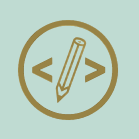
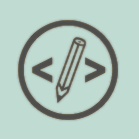
edited footer and skills sections

Changed region(s): [[0.1151, 0.1439, 0.8633, 0.8633], [0.2302, 0.259, 0.777, 0.7482]]

diff --git a/src/Components/jsx/Footer.jsx b/src/Components/jsx/Footer.jsx
@@ -10,16 +10,16 @@ import '../css/Footer.css';
 class Footer extends Component{
     render(){
         return(
-            <footer className = 'Contact'>
+            <footer className = 'contact'>
                 <Container fluid>
                     <Row>
                         <Col>
-                            <p className='footer-heading font-weight-bold text-center'>Get In Touch</p>
+                            <p className='contact--heading font-weight-bold text-center'>Get In Touch</p>
                         </Col>
                     </Row>
                     <Row>
                         <Col>
-                            <p className='footer-text'>Thanks for visiting!
+                            <p className='contact--text'>Thanks for visiting!
                              I'm always looking for new opportunities and connections. My
                             inbox is always open. Whether you have a question
                              or just want to say hi, feel free to message me. I'll try my best to get
@@ -30,22 +30,22 @@ class Footer extends Component{
                         <Col>
                             <div>
                                 <a href="https://github.com/Deep310" target="_blank" rel="noopener noreferrer">
-                                    <IconContext.Provider value={{ color: "#988345", size: "3em", className: "react-icons" }}>
+                                    <IconContext.Provider value={{ color: "white", size: "3em", className: "react-icons" }}>
                                     <FaGithub />
                                     </IconContext.Provider>
                                 </a>
                                 <a href="https://www.linkedin.com/in/deep-parekh/" target="_blank" rel="noopener noreferrer">
-                                    <IconContext.Provider value={{ color: "#988345", size: "3em", className: "react-icons" }}>
+                                    <IconContext.Provider value={{ color: "white", size: "3em", className: "react-icons" }}>
                                     <FaLinkedinIn />
                                     </IconContext.Provider>
                                 </a>
                                 <a href="https://www.facebook.com/profile.php?id=100006023175255" target="_blank" rel="noopener noreferrer">
-                                    <IconContext.Provider value={{ color: "#988345", size: "3em", className: "react-icons" }}>
+                                    <IconContext.Provider value={{ color: "white", size: "3em", className: "react-icons" }}>
                                     <FaFacebookSquare />
                                     </IconContext.Provider>
                                 </a>
                                 <a href="mailto:dparekh2019@gmail.com">
-                                    <IconContext.Provider value={{ color: "#988345", size: "3em", className: "react-icons" }}>
+                                    <IconContext.Provider value={{ color: "white", size: "3em", className: "react-icons" }}>
                                     <MdEmail />
                                     </IconContext.Provider>
                                 </a>

diff --git a/src/Components/jsx/Skills.jsx b/src/Components/jsx/Skills.jsx
@@ -8,29 +8,29 @@ import ATTLogo from '../img/AT&T logo.png';
 class Skills extends Component{
     render(){
         return(
-            <div className = 'Experience'>
+            <div className = 'experience'>
                 <Container fluid>
                     <Row>
                         <Col>
-                            <p className='exp-heading text-center font-weight-bold'> Experience</p>
+                            <p className='experience--heading text-center font-weight-bold'> Experience</p>
                         </Col>
                     </Row>
                     <Row>
                         <Col xs={12} sm={12} md={12} lg={4}>
-                            <img id='att-img' src={ATTLogo} alt='AT&T Logo' />
+                            <img id='att-img' src={ATTLogo} alt='AT&amp;T Logo' />
                         </Col>
                         <Col>
                             <h2 className='text-left font-weight-bold my-exp'>Summer Learning Academy Extern, AT&T</h2>
-                            <p className='exp-des-1 text-center'>
+                            <p className='experience1--des-1 text-center'>
                                 - Acquired business and technical acumen along with personal growth and professional
                                  development across 80 hours of online learning developed to support students during 
                                  the 2020 COVID-19 pandemic.
                             </p>
-                            <p className='exp-des-2 text-center'>
+                            <p className='experience1-des-2 text-center'>
                                 -Gained insights and advice on business, leadership, and career from business executives
                                  and recognized experts.
                             </p>
-                            <p className='exp-des-3 text-center'>
+                            <p className='experience1-des-3 text-center'>
                                 -Networked with students and AT&T employees and asked questions to nationally renowned speakers. 
                             </p>
                         </Col>

diff --git a/src/Components/css/Skills.css b/src/Components/css/Skills.css
@@ -1,10 +1,9 @@
-.Experience{
-    background-color: black;
-    color: var(--syca-yellow);
-    border-bottom: 1px solid var(--syca-yellow);
+.experience{
+    background-color: #8BCBC8;
+    color: black;
 }
 
-.exp-heading{
+.experience--heading{
     padding: 2.5rem 0;
     font-size: 3.5rem;
     font-family: 'Lora', sans-serif;
@@ -22,12 +21,13 @@
     padding-left: 3rem;
     padding-top: 2rem;
 }
-.exp-des-1{
+.experience1--des-1{
     padding-top: 2rem;
 }
-.exp-des-1, .exp-des-2, .exp-des-3{
+.experience--des-1, .experience--des-2, .experience--des-3{
     padding-bottom: 2rem;
     margin: 0;
     font-weight: 500;
     font-size: 1.1rem;
+    text-align: left;
 }

diff --git a/src/Components/css/Footer.css b/src/Components/css/Footer.css
@@ -1,19 +1,19 @@
-.Contact {
-    background-color: black;
+.contact {
+    background-color: #4E3751;
     padding: 0 10rem;
 }
 
-.footer-heading{
-    color: var(--syca-yellow);
+.contact--heading{
+    color: #ecc7c0;
     font-size: 3.5rem;
     margin: 2.5rem 0 1rem 0; 
     font-family: 'Lora', sans-serif;
 }
 
-.footer-text{
-    font-size: 1.2rem;
-    font-weight: 500;
-    color: var(--syca-yellow);
+.contact--text{
+    font-size: 1.33rem;
+    font-weight: 300;
+    color: white;
     margin: 2rem 0;
 }
 
@@ -22,7 +22,7 @@
 }
 
 @media screen and (max-width: 700px){
-    .Contact{
+    .contact{
         padding: 0 1rem;
     }
 }

diff --git a/src/Components/css/MyIntro.css b/src/Components/css/MyIntro.css
@@ -14,21 +14,21 @@
     font-family: 'Lato', sans-serif;
     letter-spacing: 0.3rem;
     padding-left: 40px;
-    color: var(--syca-yellow);
+    color: #333333;
 }
 
 .intro--line{
     width:70px;
     height: 5px;
-    background: var(--syca-yellow);
+    background-color: #333333;
     position: absolute;
-    left: 47.5%;
+    left: 47%;
 }
 
 .intro--roles{
     font-size: 1.5rem;
     letter-spacing: 0.1rem;
-    color: var(--syca-yellow);
+    color: #333333;
     margin: 40px 0 60px 90px;
     font-weight: 500;
 }

diff --git a/src/Components/jsx/Header.jsx b/src/Components/jsx/Header.jsx
@@ -35,7 +35,7 @@ class Header extends Component {
                                     to="Experience"
                                     spy={true}
                                     smooth={true}
-                                    offset={-70}
+                                    offset={0}
                                     duration={700}
                                 >
                                 Experience

diff --git a/src/Components/jsx/MyIntro.jsx b/src/Components/jsx/MyIntro.jsx
@@ -12,8 +12,8 @@ import symbol from '../img/symbol.png';
 const StyledButton = withStyles({
     root: {
       borderRadius: 5,
-      border: '2px solid #988345',
-      color: '#988345',
+      border: '2px solid #333',
+      color: '#333',
       height: 50,
       padding: '0 30px',
       marginBottom: '6rem'
